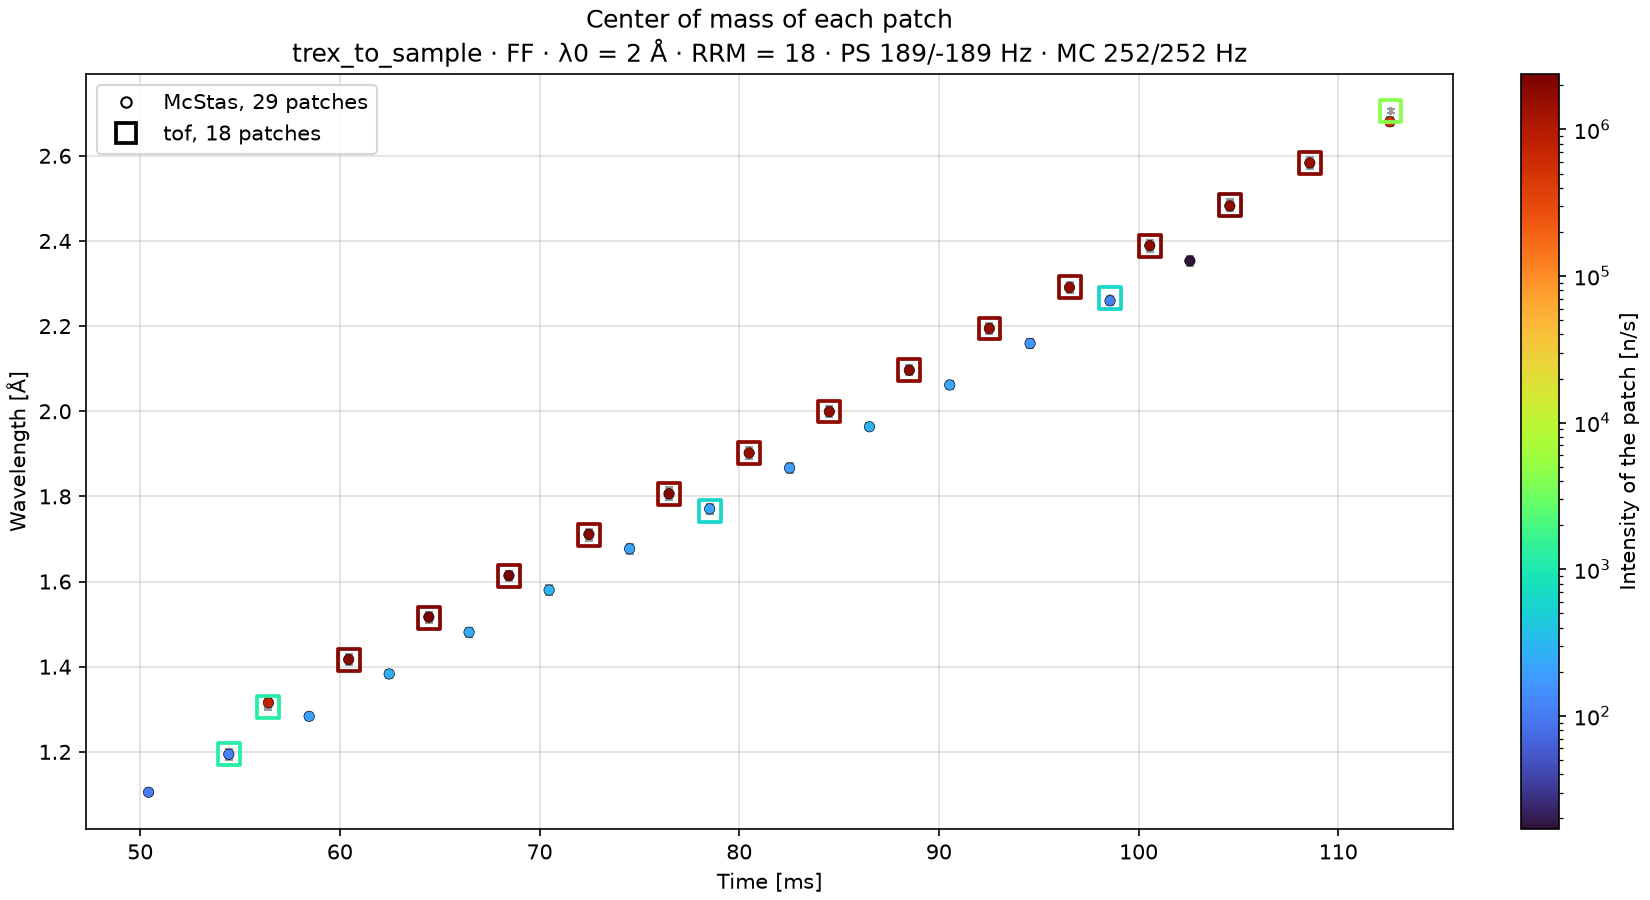
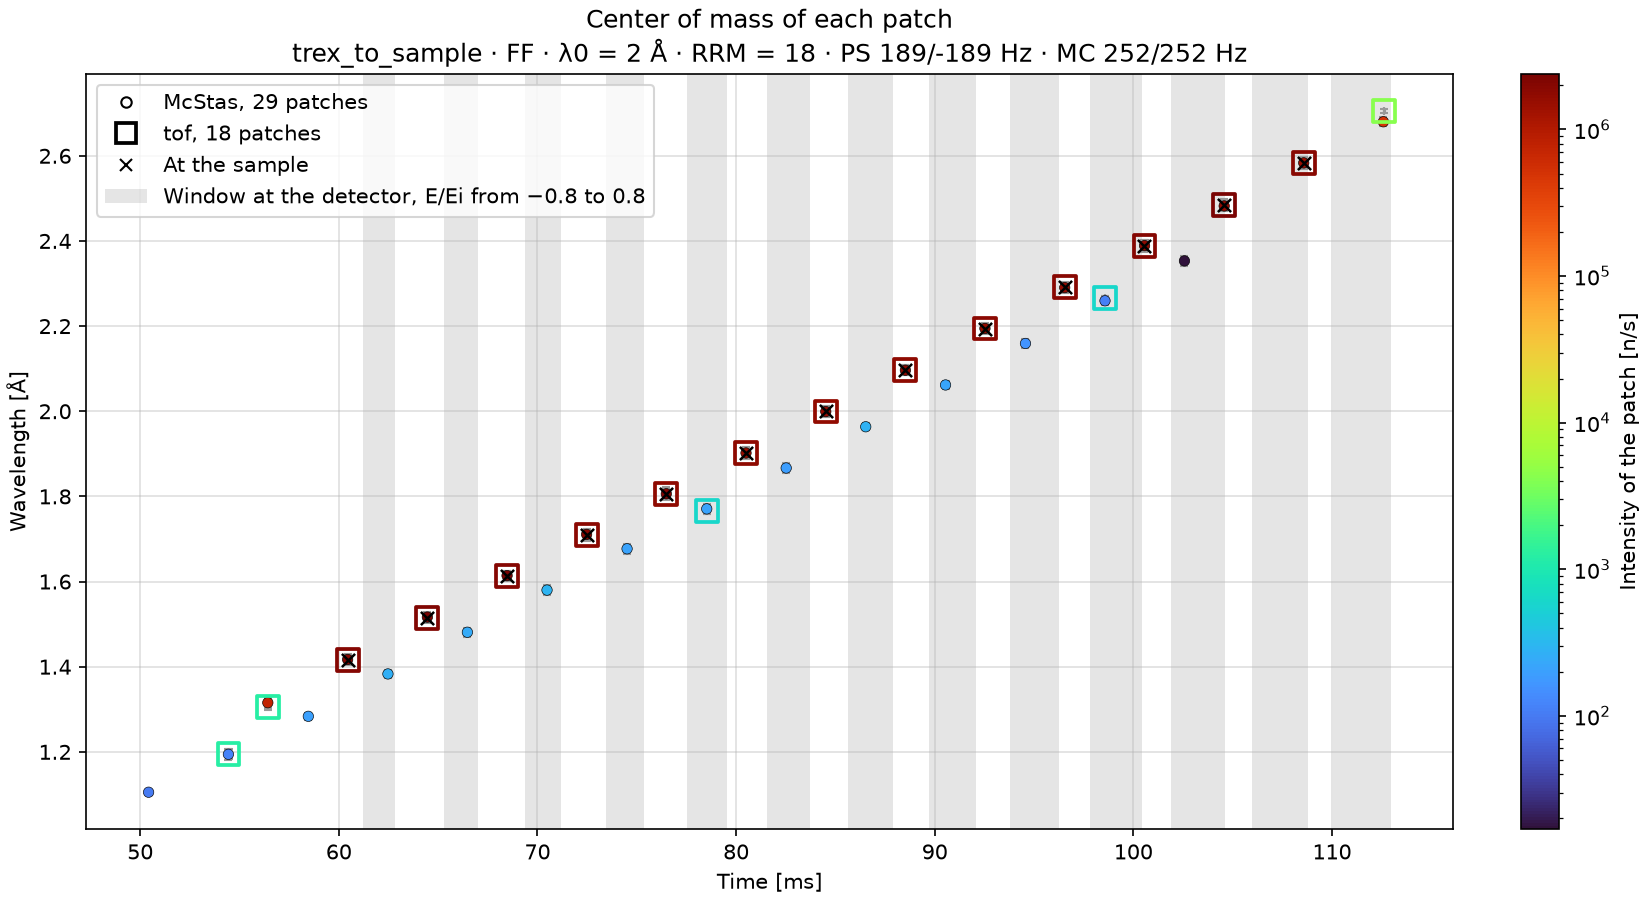
Draw the time at the sample and the arrival windows on the patches
Each main sub-pulse of tof gets a cross when it reaches the sample, and
its window at the banana detector a gray band across all wavelengths.

diff --git a/src/mcdgs/diagnostics/trex_07_neutrons_on_sample.py b/src/mcdgs/diagnostics/trex_07_neutrons_on_sample.py
@@ -36,9 +36,11 @@ import matplotlib.pyplot as plt
 import mcstasscript as ms
 import scipp as sc
 import tof
+from matplotlib.artist import Artist
 from matplotlib.colors import LogNorm
 from matplotlib.figure import Figure
 from matplotlib.lines import Line2D
+from matplotlib.patches import Patch
 
 from mcdgs.diagnostics.cli import output_folder, parse_out
 from mcdgs.diagnostics.compare import MonitorComparison, plot_comparison, read_scaled_comparisons
@@ -76,7 +78,9 @@ class TRexToSample(TRex):
         # --8<-- [end:trex_to_sample]
 
 
-def plot_patches(comparison: MonitorComparison, title: str) -> Figure:
+def plot_patches(
+    comparison: MonitorComparison, title: str, windows: sc.DataArray | None = None
+) -> Figure:
     """Draw the center of mass of each patch of both models, in time and wavelength.
 
     Each patch is a point at its mean time and wavelength, with its width in each as gray error
@@ -84,12 +88,18 @@ def plot_patches(comparison: MonitorComparison, title: str) -> Figure:
     McStas has small filled circles, tof larger hollow squares with the color as their outline, so
     that where both have a patch the square frames the circle.
 
+    With ``windows``, each sub-pulse is also drawn at its incident wavelength: a black cross when
+    it reaches the sample, and its arrival window at the banana detector, from the opening to the
+    close, as a gray band across all wavelengths.
+
     Parameters
     ----------
     comparison:
         Both maps.
     title:
         The title of the figure.
+    windows:
+        The sub-pulses of :func:`subpulse_windows`, or ``None``.
 
     Returns
     -------
@@ -140,7 +150,7 @@ def plot_patches(comparison: MonitorComparison, title: str) -> Figure:
         zorder=3,
     )
     # the legend shows the markers only, not the color of one patch
-    handles = [
+    handles: list[Artist] = [
         Line2D(
             [],
             [],
@@ -163,6 +173,30 @@ def plot_patches(comparison: MonitorComparison, title: str) -> Figure:
             label=f"tof, {tof.time.size} patches",
         ),
     ]
+    if windows is not None:
+        wavelength = windows.coords["incident_wavelength"].to(unit="Å").values
+        ax.scatter(
+            windows.coords["time_at_sample"].to(unit="ms").values,
+            wavelength,
+            marker="x",
+            s=40,
+            color="black",
+            linewidths=1.2,
+            zorder=4,
+        )
+        for opens, closes in zip(
+            windows.coords["earliest_arrival"].to(unit="ms").values,
+            windows.coords["latest_arrival"].to(unit="ms").values,
+        ):
+            ax.axvspan(opens, closes, color="0.5", alpha=0.2, linewidth=0, zorder=0)
+        handles += [
+            Line2D([], [], linestyle="none", marker="x", color="black", label="At the sample"),
+            Patch(
+                facecolor="0.5",
+                alpha=0.2,
+                label="Window at the detector, E/Ei from \u22120.8 to 0.8",
+            ),
+        ]
     fig.colorbar(points, ax=ax, label="Intensity of the patch [n/s]")
     ax.set(title=title, xlabel="Time [ms]", ylabel="Wavelength [Å]")
     ax.grid(True, alpha=0.4)
@@ -344,9 +378,12 @@ def main(
         print(f"Saved {figure}")
         figures.append(figure)
 
+    windows = subpulse_windows(instrument, tof_result)
     figure = output_folder(out, folder) / f"{name}_patches.png"
     fig = plot_patches(
-        comparison, f"Center of mass of each patch\n{instrument.running_conditions()}"
+        comparison,
+        f"Center of mass of each patch\n{instrument.running_conditions()}",
+        windows=windows,
     )
     fig.savefig(figure, dpi=150)
     plt.close(fig)
@@ -354,7 +391,7 @@ def main(
     figures.append(figure)
 
     table = output_folder(out, folder) / f"{name}_windows.txt"
-    table.write_text(windows_table(subpulse_windows(instrument, tof_result)))
+    table.write_text(windows_table(windows))
     print(table.read_text(), end="")
     print(f"Saved {table}")
     figures.append(table)

diff --git a/docs/instruments/trex/neutrons-on-sample.md b/docs/instruments/trex/neutrons-on-sample.md
@@ -77,6 +77,12 @@ intensity, its width and its intensity, and `plot_patches` draws them: McStas as
 tof as hollow squares, colored by intensity on one log scale. Where both models have a patch, the
 square frames the circle. The width is drawn as error bars, smaller than the markers here.
 
+Each main sub-pulse of tof is also drawn: a black cross at its incident wavelength when it
+reaches the sample, and its arrival window at the banana detector as a gray band across all
+wavelengths, from the [table below](#arrival-windows-at-the-detector). The sample monitor is at
+the sample, so each cross falls on its patch. The bands lie between the sub-pulses, and the weak
+patch after each sub-pulse sits about 2 ms after the cross, at a slightly shorter wavelength.
+
 ## What reaches the sample
 
 Every neutron's departure time from the moderator follows from its time of arrival t and
